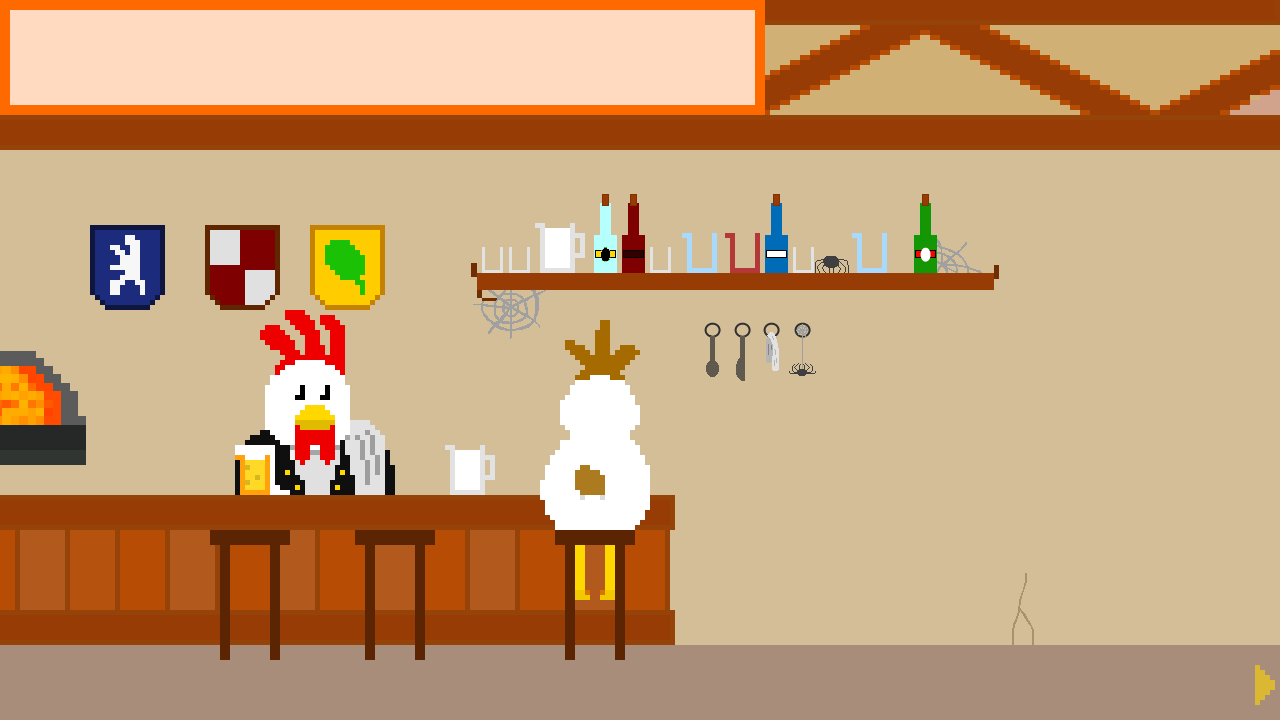
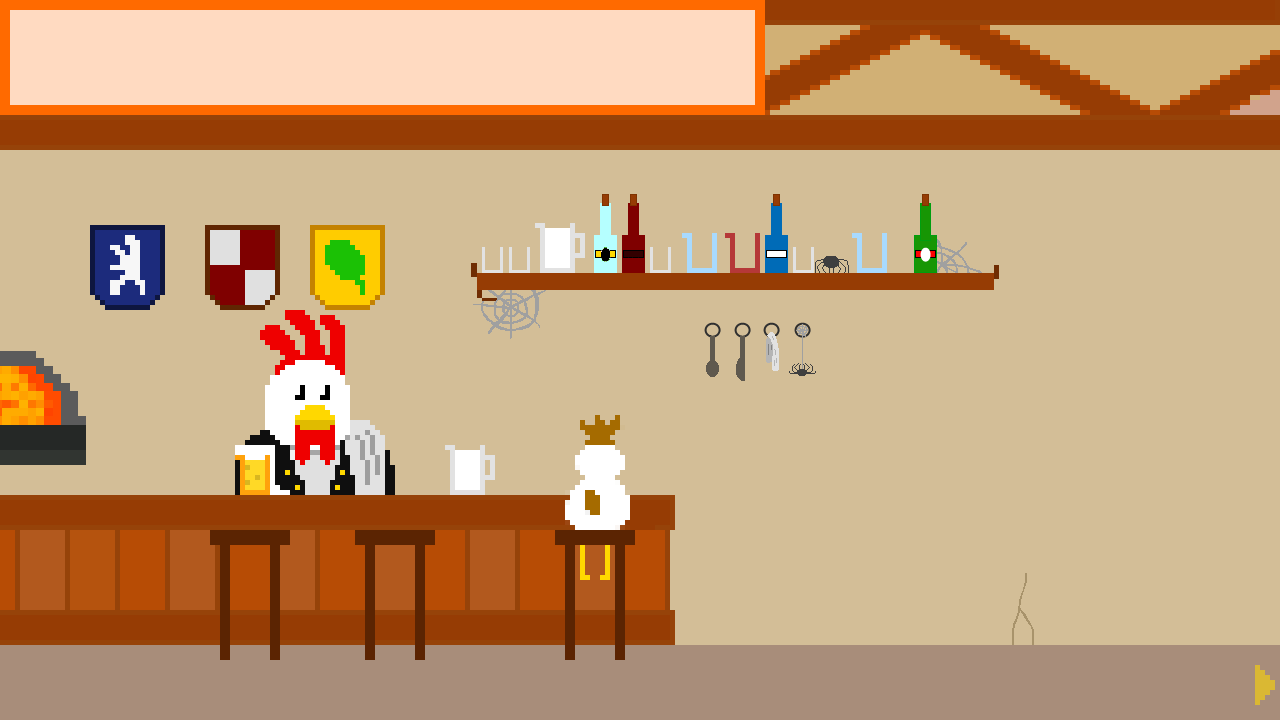
add readme and copying files

Changed region(s): [[0.4062, 0.4278, 0.5312, 0.7333], [0.4375, 0.7639, 0.5, 0.8556]]

diff --git a/js/pnj_class.js b/js/pnj_class.js
@@ -37,10 +37,10 @@ var Pnj = function(id, img)
 		break;
 		case 4 : /* poulet_au_bar ------- sans image 2 */
 			this.iSceneNb = 0;
-			this.sx = 540;
-			this.sy = 325;
-			this.sw = 110;
-			this.sh = 250;
+			this.sx = 560;
+			this.sy = 400;
+			this.sw = 80;
+			this.sh = 150;
 		break;
 		case 5 : /* poulet_blanc ------- sans image 3 */
 			this.iSceneNb = 2;

diff --git a/js/main.js b/js/main.js
@@ -162,7 +162,6 @@ window.onkeydown = function(event)
 	else if (event.keyCode == 80) /* P button */	
 	{
 		globalVar.bPause = !globalVar.bPause;
-		globalVar.bDebug = !globalVar.bDebug;
 		run();
 	}
 }

diff --git a/js/runLoop.js b/js/runLoop.js
@@ -191,6 +191,7 @@ if (!gVar.bMinigames)
 				{
 					gVar.bCanClick = false;
 					gVar.oDave.bDialog = false;
+					gVar.aPnj[i].iDialog_state++;
 					gVar.aPnj[i].iInteractionState = 0;
 				}
 			}

diff --git a/README.md b/README.md
@@ -1,0 +1,1 @@
+Hey! It's a free and open sources software under the MIT License (see the "COPYING" file), have fun !
